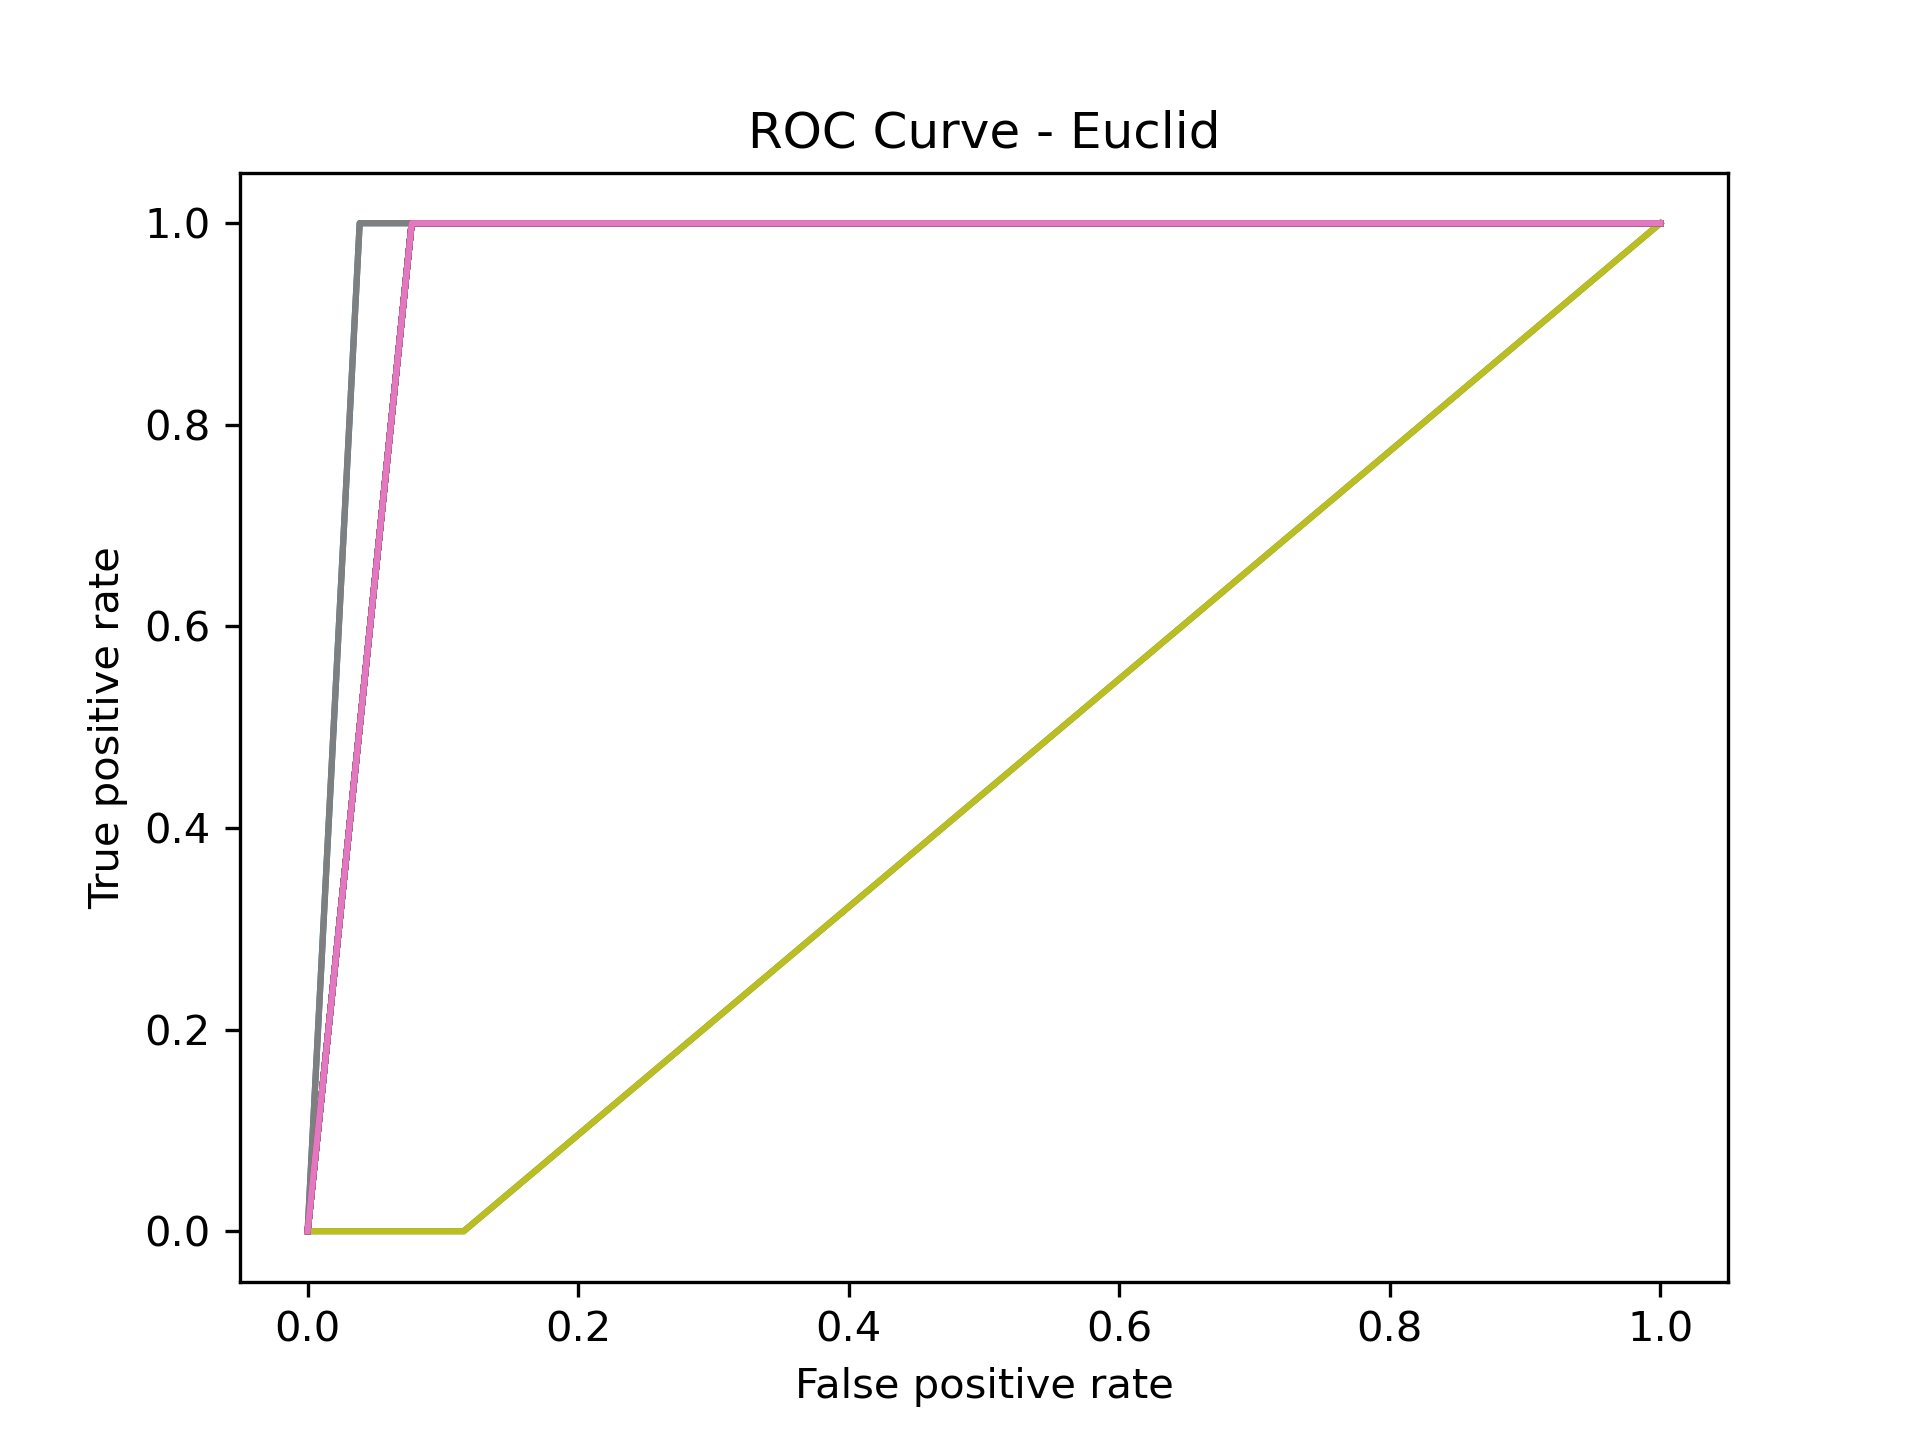
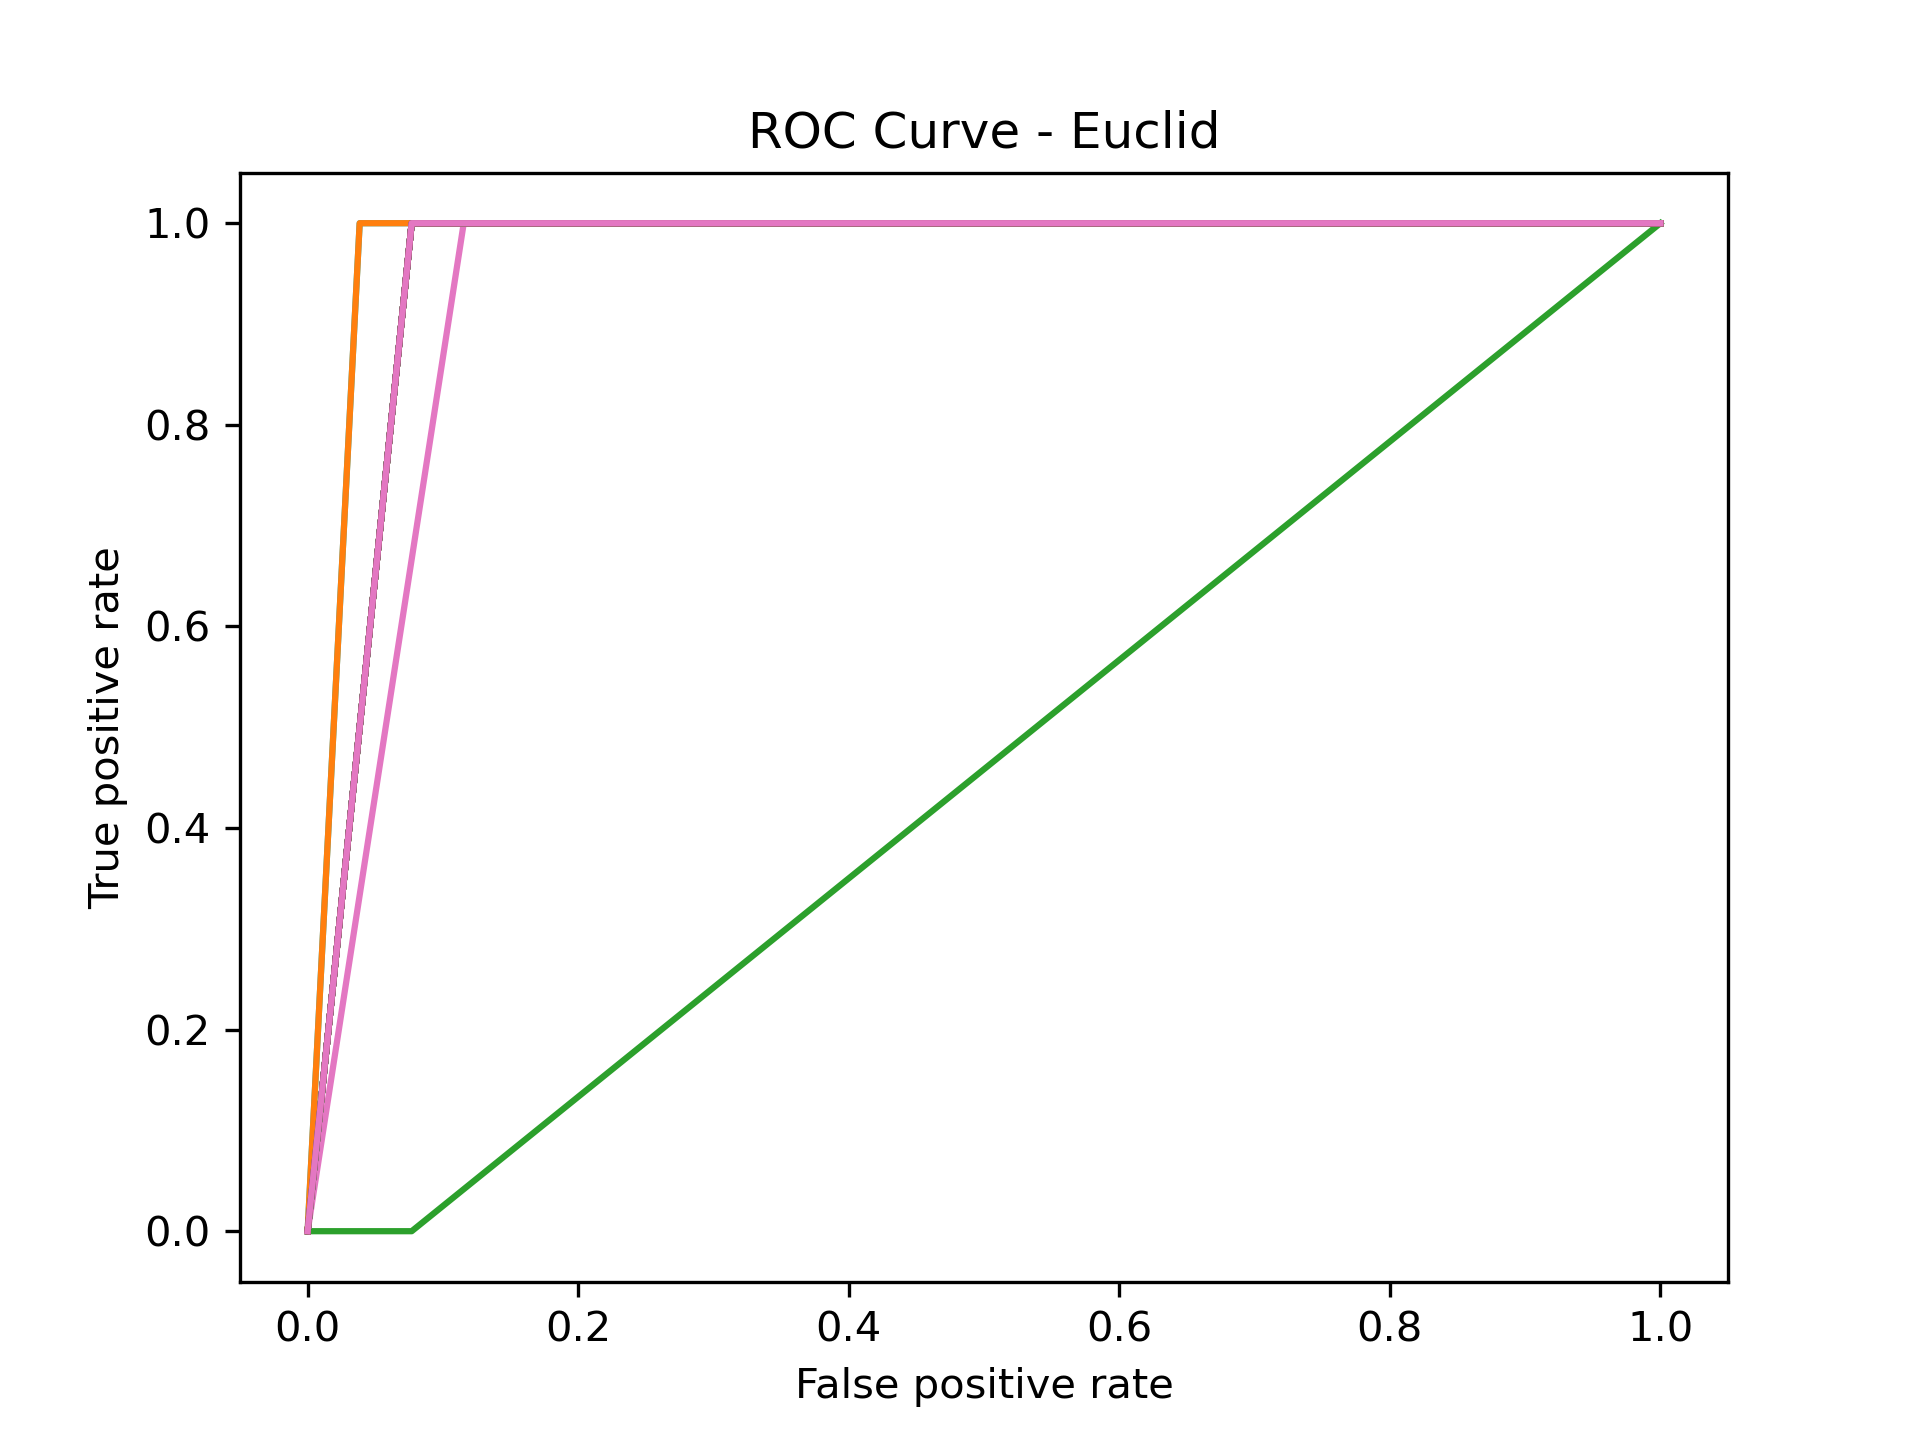
line 96: 1.03 -> 1.1

diff --git a/detectFace.py b/detectFace.py
@@ -93,7 +93,7 @@ def read_images_from_folder(folder):
                     # cv2.waitKey(0)
 
                     # find and crop the face from the aligned image
-                    face = face_cascade.detectMultiScale(rotated, 1.03, 5)
+                    face = face_cascade.detectMultiScale(rotated, 1.1, 5)
                     for (x, y, w, h) in face:
                         if w >= h:
                             h = w
